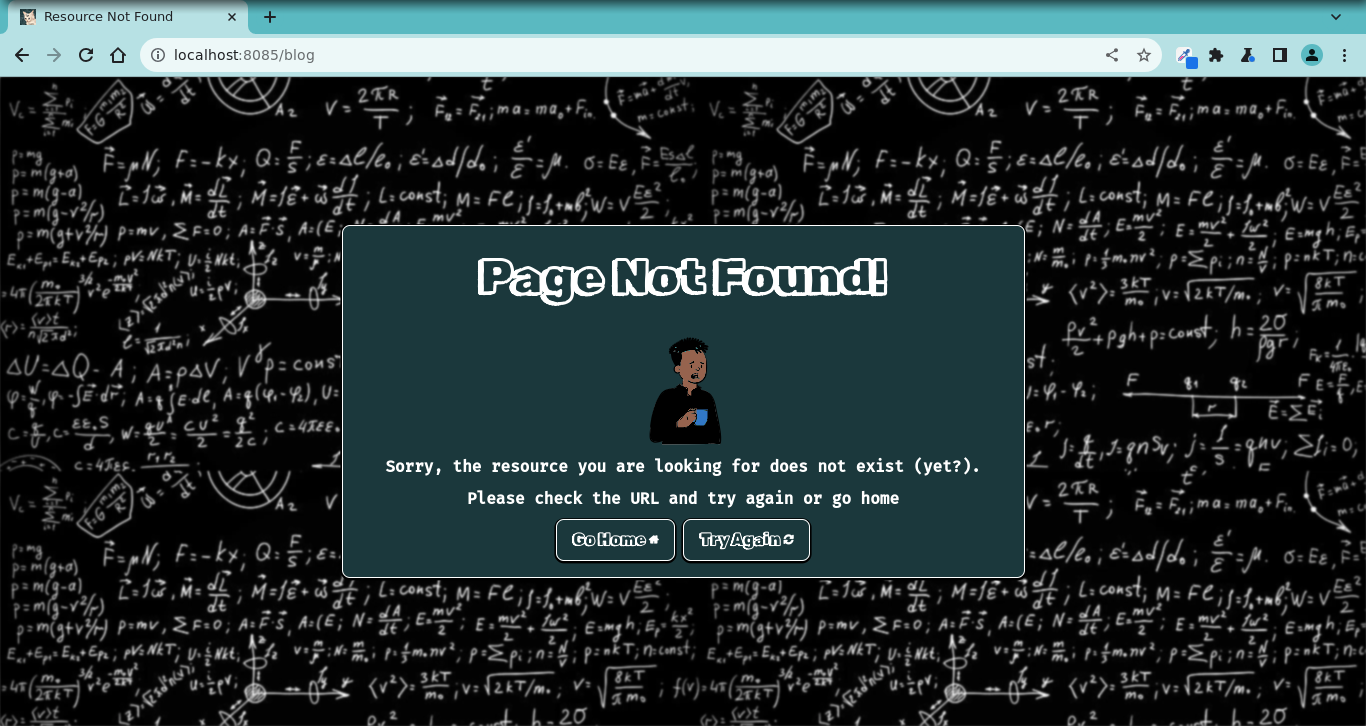
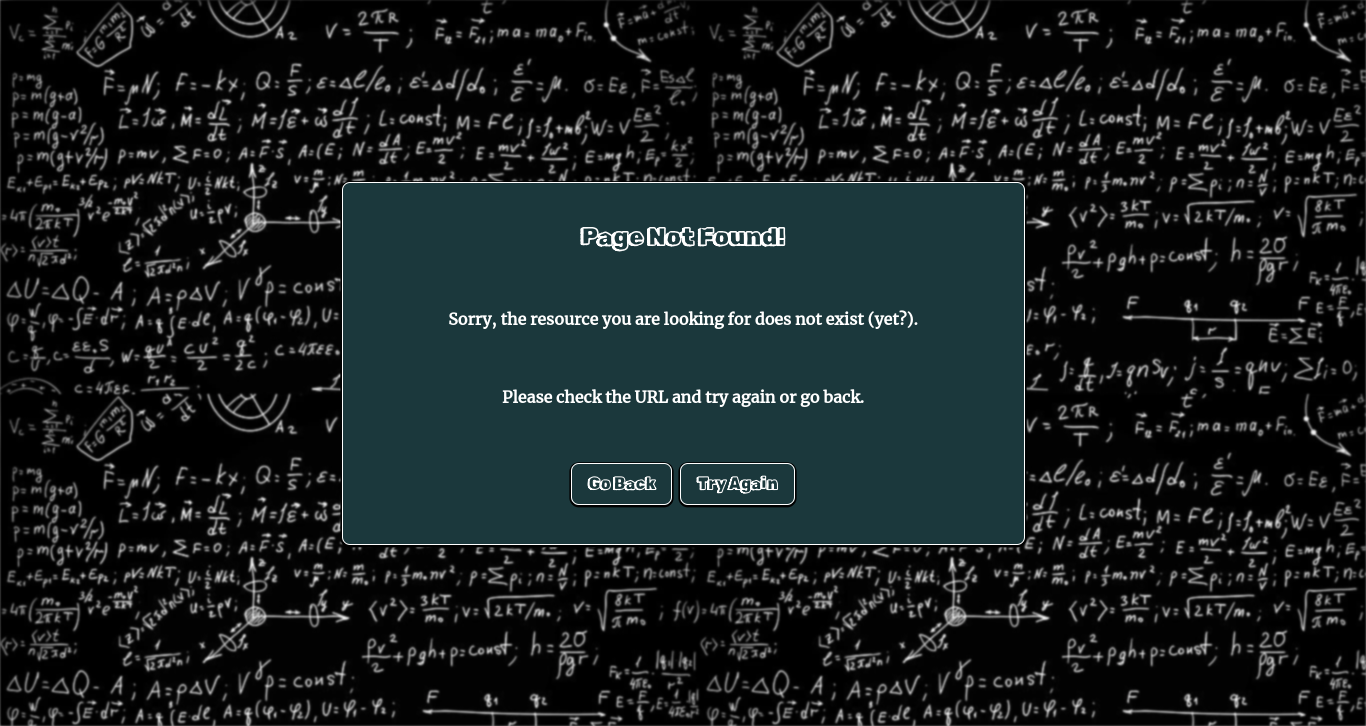
🎨👷🔧 feat: final touches letsss gooo

diff --git a/readme.md b/readme.md
@@ -31,6 +31,10 @@ Source code for my personal website, [jamerrq.dev](https://jamerrq.dev).
 
 ![Featured & Projects](./lib/pages/featured-and-projects.png)
 
+## Blog 📝
+
+![Alt text](lib/pages/blog.png)
+
 ### 404
 
 ![404](./lib/pages/404.png)
@@ -39,9 +43,17 @@ Source code for my personal website, [jamerrq.dev](https://jamerrq.dev).
 
 <summary>
 
-### Less than 1MB!
+## New! Mobile version 📱
 
-![Alt text](image.png)
+</summary>
+
+![Mobile](./lib/snaps/mobile2.png)
+
+</details>
+
+### All shipped into less than 1MB ⚡
+
+![Alt text](lib/snaps/resources-loaded.png)
 
 ## Stack 🥞
 
@@ -65,9 +77,10 @@ CSS](https://img.shields.io/badge/-Tailwind%20CSS-38B2AC?style=flat-square&logo=
 
 - [Nerd Fonts Cheat Sheet](https://www.nerdfonts.com/cheat-sheet)
 - [Tailwind CSS Debug Screens](https://github.com/jorenvanhee/tailwindcss-debug-screens)
-- [Typed CSS](https://typedcss.com/)
-- [CSS Peeps](https://css-peeps.com/)
+- [Typed CSS (removed)](https://typedcss.com/)
+- [CSS Peeps (removed)](https://css-peeps.com/)
 - [Tailwind Cheat Sheet](https://tailwindcomponents.com/cheatsheet/)
 - [Astro View Transitions](https://docs.astro.build/en/guides/view-transitions/)
 - [Astro View Transitions - Lifecycle Events](https://docs.astro.build/en/guides/view-transitions/#lifecycle-events)
 - [🦔 AstroCritters](https://github.com/astro-community/AstroCritters)
+- [@astrojs/preact](https://docs.astro.build/en/guides/integrations-guide/preact/)
